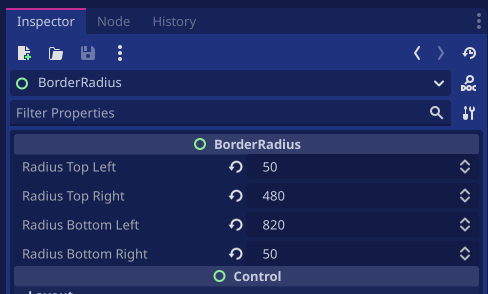
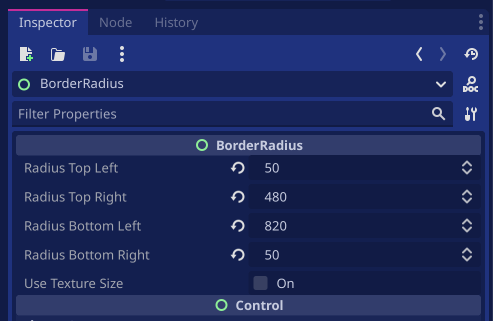
Add use_texture_size option for TextureRect

diff --git a/README.md b/README.md
@@ -18,6 +18,10 @@ and set your borders:
 
 ![Alt text](media/tutorial-3.png)
 
+### Use with textures (`TextureRect`)
+
+You can enable/disable "Use Texture Size" (`use_texture_size`) property to use actual texture size instead of rect size with `TextureRect`.
+
 ### How to use the shader directly?
 
 If you wanna use the border radius shader directly attach it to your node and set following uniforms:
